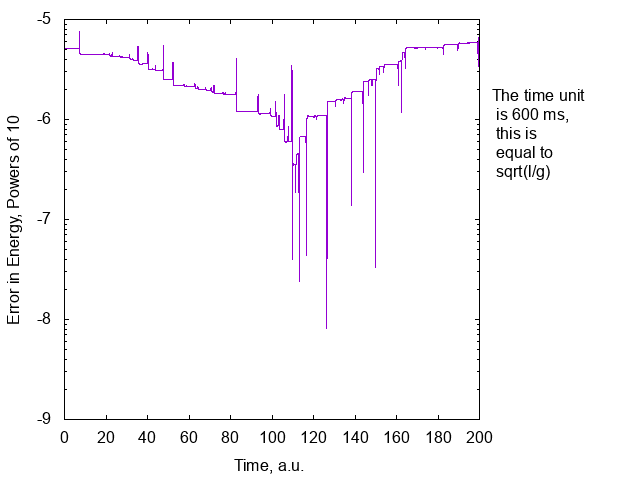
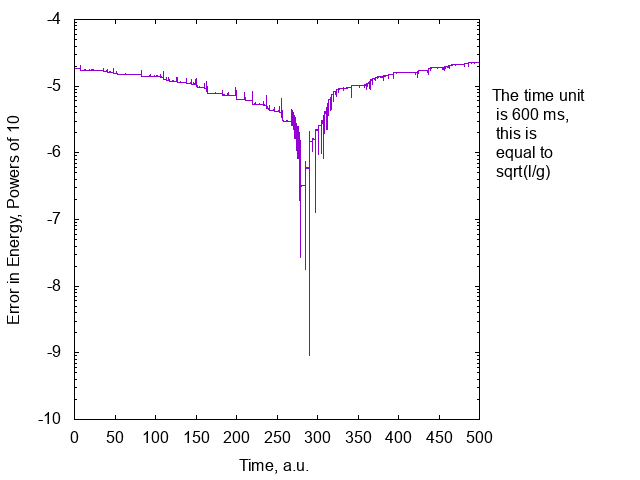
made longer

diff --git a/data.py b/data.py
@@ -43,4 +43,4 @@ def draw(p,E):
     y2 = y1-cos(t)
     savetxt('pendata',array((s,x1,y1,x2,y2,E)).T)
 
-draw(*rk4(array((3.141,3.141,0,0)),20000))
+draw(*rk4(array((3.141,3.141,0,0)),50000))
